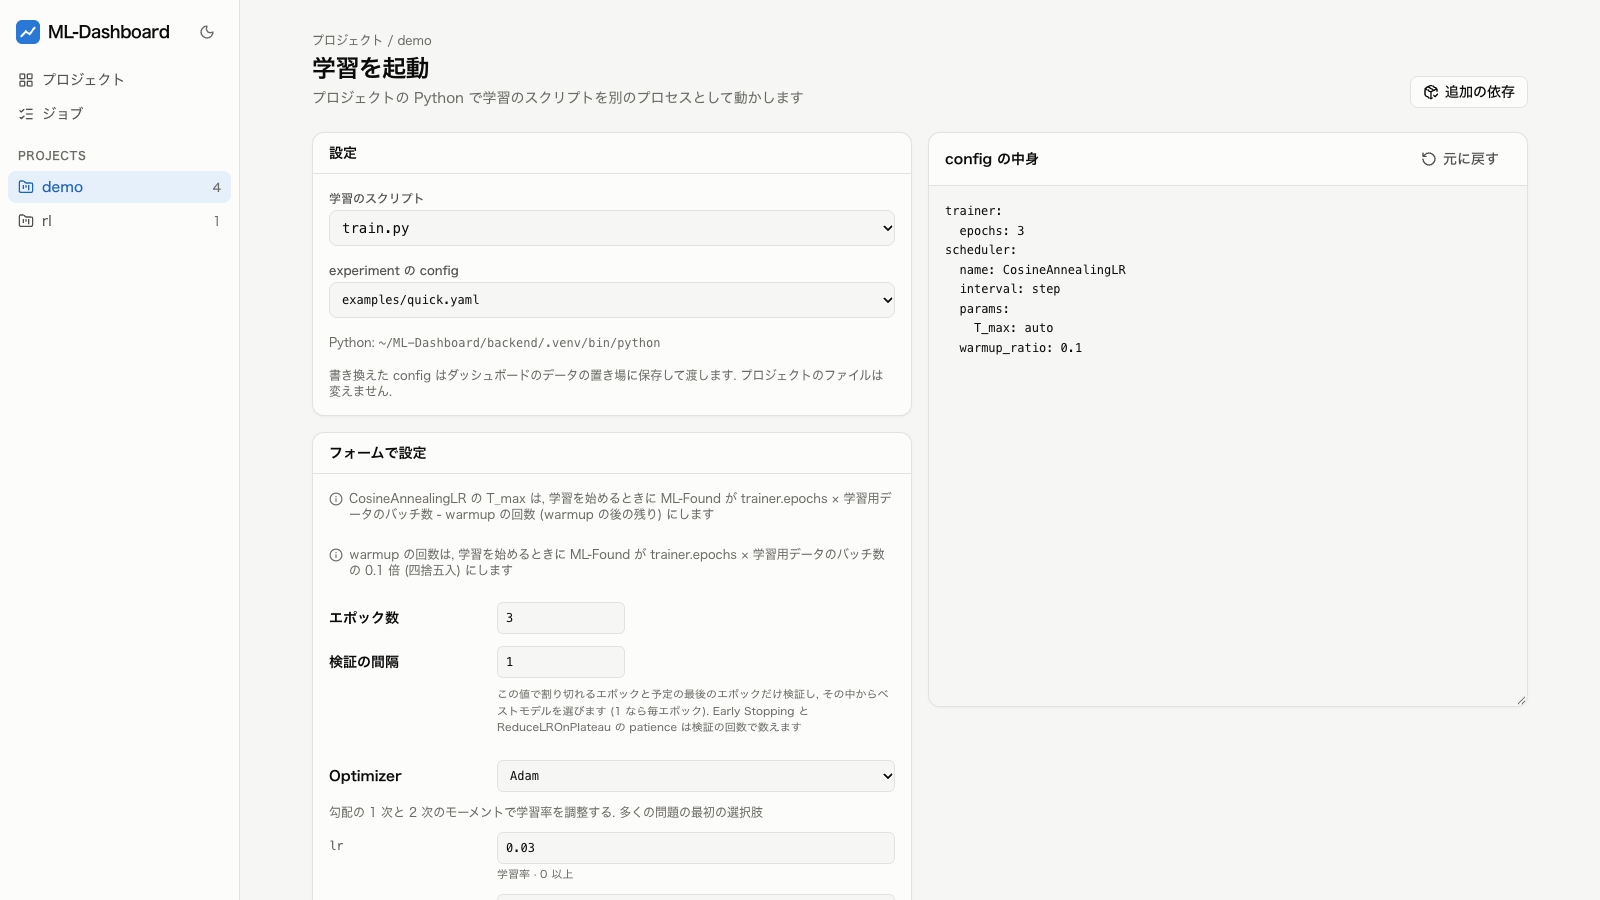
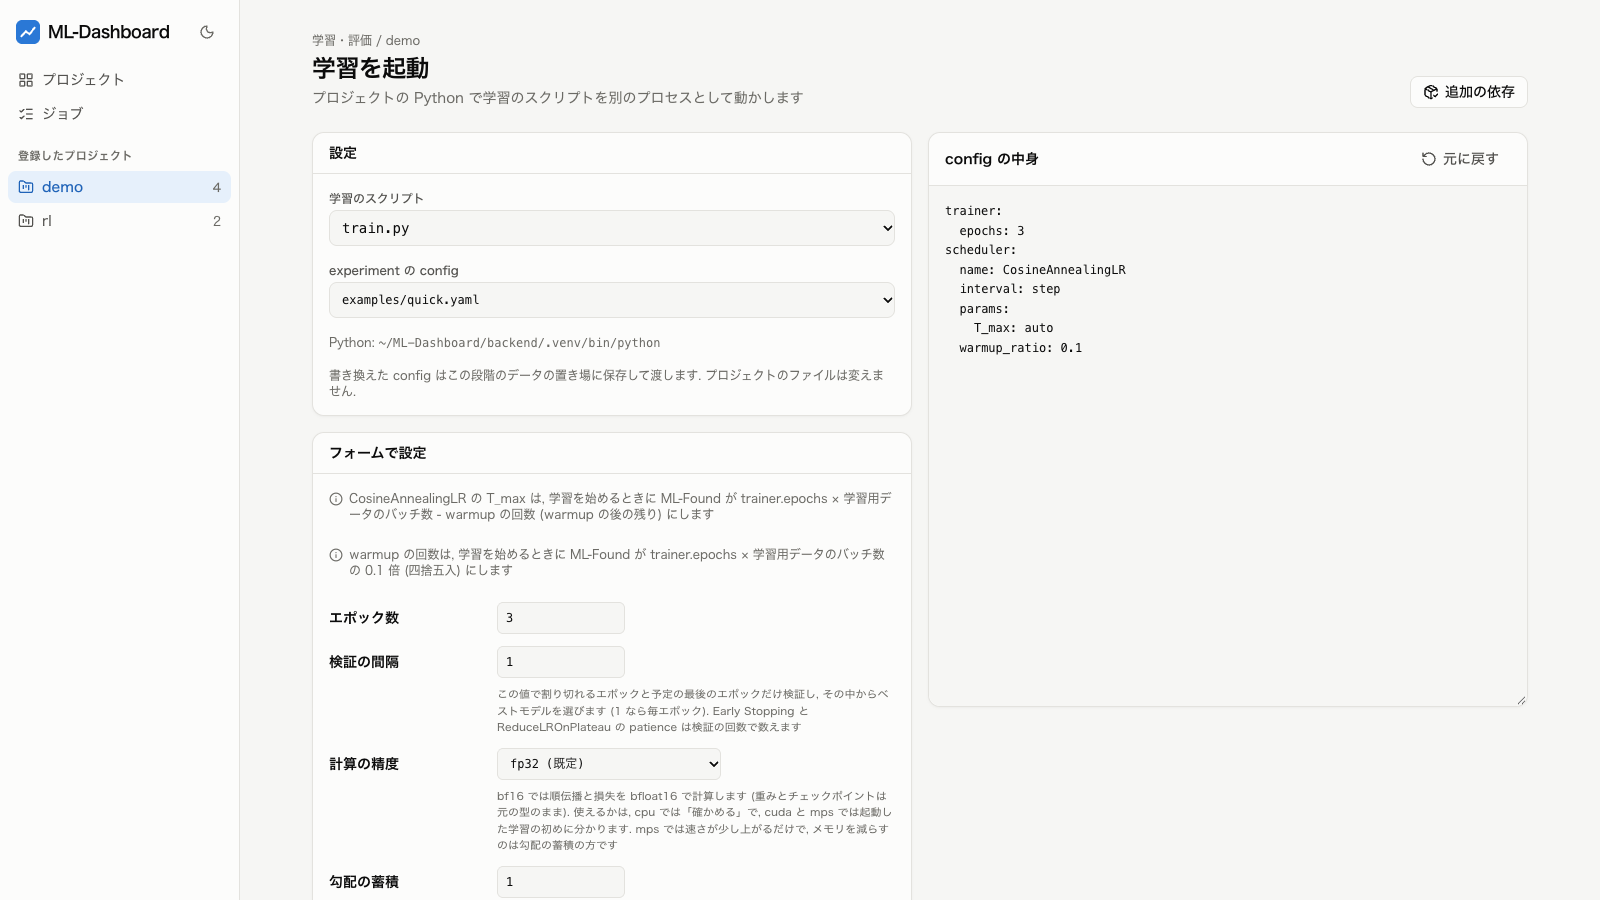
README と操作ガイドの画面の図を今の画面で撮り直す (#208)
* README と操作ガイドの画面の図を今の画面で撮り直す

* README の画面の例の alt を写っているものに合わせる

---------

diff --git a/TODO.md b/TODO.md
@@ -5,19 +5,15 @@
 
 ## 優先度 高
 
-### README と操作ガイドの画面の図を撮り直す
-- 何を: `make screenshots` で README の画面の図と操作ガイドの図を撮り直す
-- なぜ: 図の左の欄の見出し (Projects) とボタン (プロジェクトを追加) が今の画面の語 (登録したプロジェクト, プロジェクトを登録) と違い, 段階の頭の画面の見出しも今の「学習・評価」と違うため
-- 終わりの条件: 図の中の語が今の画面と同じになる
-- つながり: 無し
-
-## 優先度 中
-
 ### 起動の直後に押した中断が消えた場合に送り直す
 - 何を: ジョブの起動の直後 (子の Python がインタプリタを初期化している途中とみられる) に押した中断の SIGINT は, まれに消えて効かない. stop_requested は True になるので, 画面では止めたように見える. 自分で起動したジョブが stop_requested のまま数秒たっても生きていて, 1 回目を受けて止まり始めた様子 (出力や状態のファイルの変化など) も無ければ, SIGINT を送り直す (止まり始めたジョブに 2 回目を送ると中断を強めてしまうため)
 - なぜ: 中断を押したのに学習が続き, 画面と実際の状態が食い違わないようにするため
 - 終わりの条件: 起動の直後に中断を送っても, 数秒のうちにジョブが終わる. 起動の直後に中断を送るテストが, 起動の印を待たずに通る
 - つながり: テストでは学習のスクリプトが起動の印を作るのを待ってから中断を送り, この消え方を避けている (`backend/tests/test_api.py` の `wait_started`)
+
+## 優先度 中
+
+無し
 
 ## 優先度 低
 

diff --git a/README.md b/README.md
@@ -4,7 +4,7 @@
 
 ML-Found が実験ごとに残すディレクトリ (`history.csv`, `config.yaml`, `train.log` など) をそのまま読むので, 学習のコードに手を加えなくても, 既にある実験を見られる.
 
-![実験の比較: 3 つの実験のテスト用の評価の値と守る指標の印を並べ, 学習曲線を重ね, 同じエポックの決定境界の画像と config の違いを並べる](docs/images/compare.png)
+![実験の比較: 3 つの実験の表, テスト用の評価の値と守る指標の印, 重ねた学習曲線](docs/images/compare.png)
 
 **実験の比較**. 選んだ実験のテスト用の評価の値と守る指標の印を並べ, 学習曲線を指標ごとに重ね, 同じエポックの画像と config の違う項目を並べる.
 
@@ -27,7 +27,7 @@ ML-Found が実験ごとに残すディレクトリ (`history.csv`, `config.yaml
   </tr>
   <tr>
     <td><img src="docs/images/policy.png" alt="方策のタブ: 強化学習の方策の一式, 重みの sha256 の一致, 守り付きの評価の終え方ごとの割合と学習の成功の割合"></td>
-    <td><img src="docs/images/requirements.png" alt="追加の依存: 強化学習, MuJoCo, ROS 2, CUDA が入っているかと入れ方のカード"></td>
+    <td><img src="docs/images/requirements.png" alt="追加の依存: 強化学習, MuJoCo, ROS 2, CUDA などの機能が入っているかと入れ方のカード"></td>
   </tr>
   <tr>
     <td><b>方策</b>. 強化学習の方策の守りと重みの sha256 を確かめる. 重みは配らず, 使ってよいかは人が承認する</td>

diff --git a/docs/GUIDE.md b/docs/GUIDE.md
@@ -281,7 +281,7 @@ uv run python ../demo/train.py model.hidden_dim=16
 
 強化学習の環境 (Gymnasium), MuJoCo, ROS 2, CUDA のように, ML-Found の本体に含めない機能は, 要るときだけ入れる. 実験の一覧か学習の起動の画面の「追加の依存」で, 機能ごとに入っているかと入れ方をカードで見られる (確かめるのはプロジェクトの Python). pip で入るものはコマンドをコピーして, プロジェクトの Python の環境で実行する. pip で入らないもの (ROS 2, CUDA) は公式の手順へのリンクが出る. 入れた後は「確かめ直す」を押す. 入っていても版が下限より古い場合は, 「足りない」でなく「版が古い」と, 入っている版と下限が出る (同じ pip のコマンドで新しい版に入れ替える).
 
-![追加の依存の画面. 4 つの機能のカードに, 足りないものと次の一手が出る](images/requirements.png)
+![追加の依存の画面. 機能ごとのカード (強化学習, MuJoCo, ROS 2, CUDA など) に, 足りないものと次の一手が出る](images/requirements.png)
 
 学習に要る機能は, default の config の一番上に書く.
 
